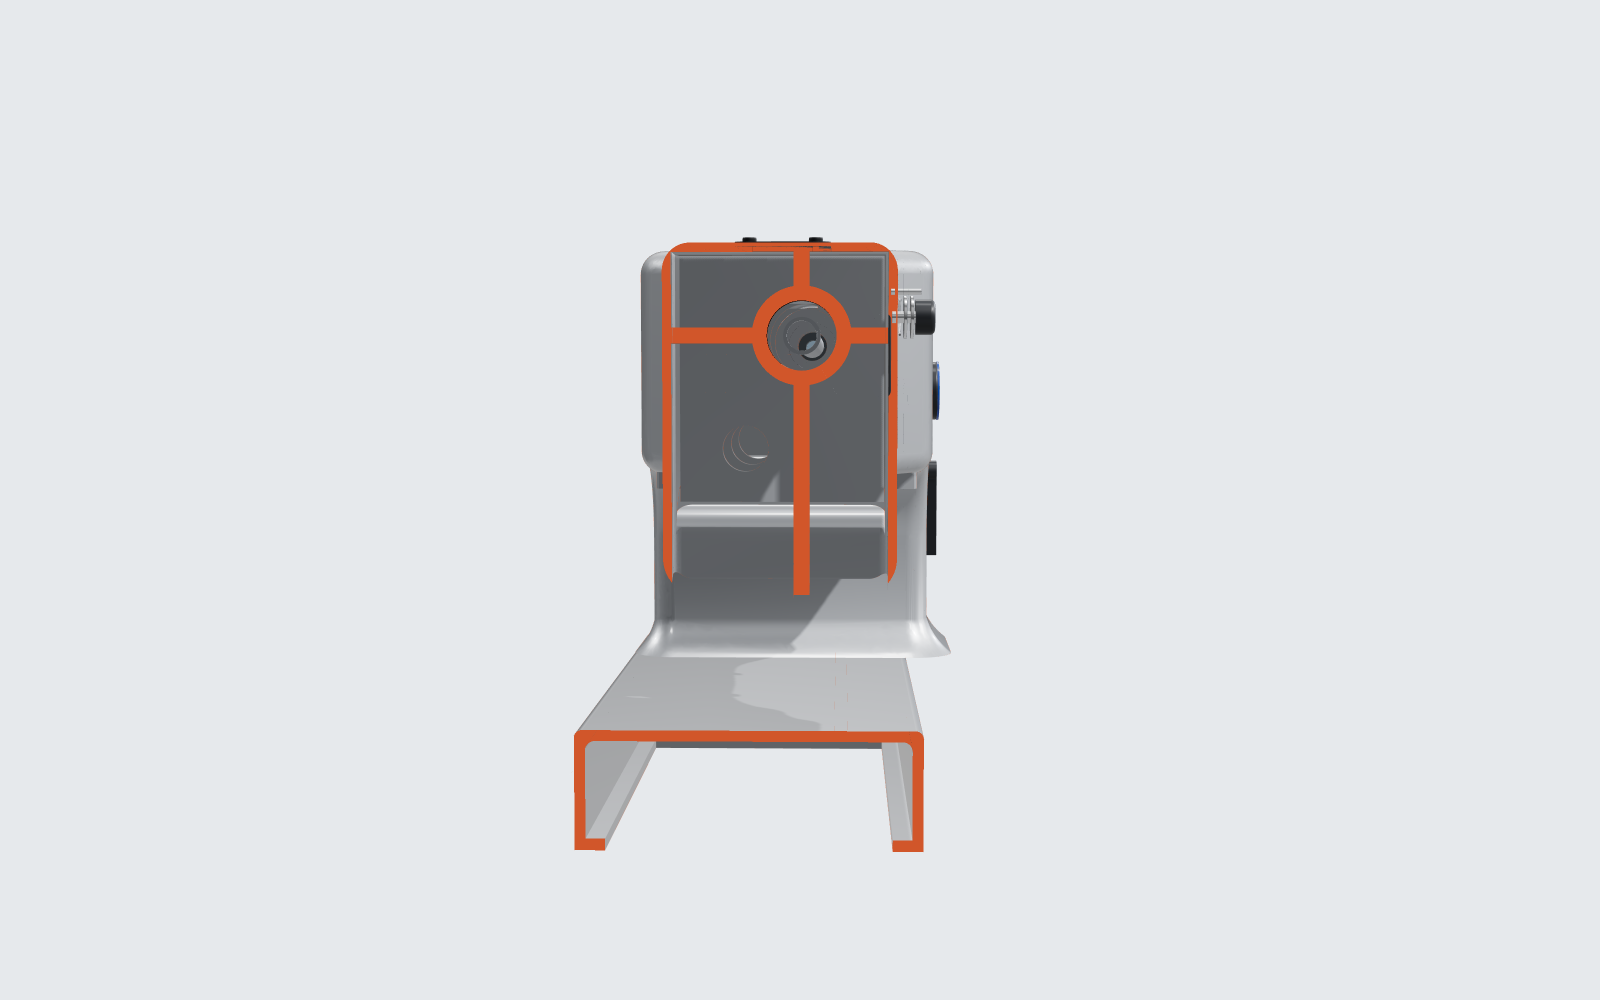
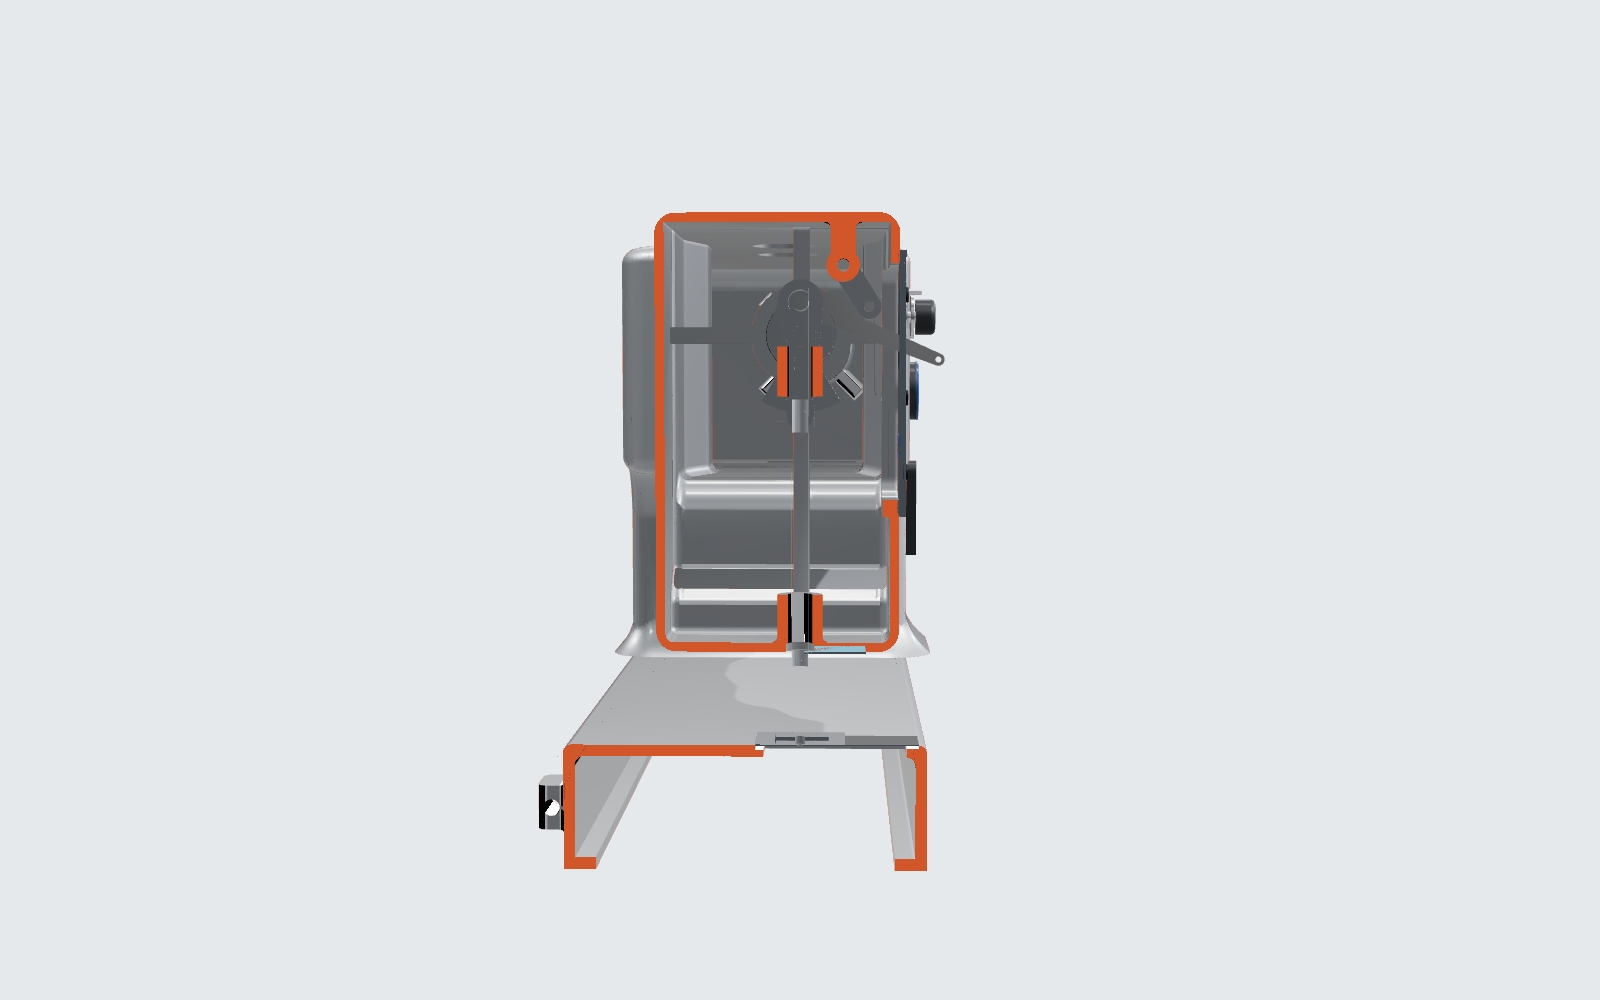
第138轮 G4.4 完成：机臂补底壁、机壳分上下两件（24.3 kg，221/229 Hz），干涉复核、剖视图重出
Claude-Session: https://claude.ai/code/session_01NKjsqWvDSpVGBBfSfcC778

Changed region(s): [[0.375, 0.186, 0.5938, 0.682], [0.3125, 0.713, 0.5938, 0.868]]

diff --git a/docs/设计/WQ-LS/G3/外观与机壳铸件.md b/docs/设计/WQ-LS/G3/外观与机壳铸件.md
@@ -252,3 +252,52 @@ Eddie：“别标新立异了，先灰铸铁吧。”机壳材料定为 **HT250 
 - 工艺规程、夹具、精度预算、数控程序；
 - 毛坯图和零件图；
 - 三坐标测量检测计划。
+
+## 十二、G4.4 补上机臂底壁、机壳分上下两件（2026-11-11）
+
+起因：Eddie 11-11 07:34 看剖视图：“机壳分上下两部分，你这刨开是老样子，而且中间下面明显少薄壁”。
+
+**发现的错误（G3 起就有）**：`cad/housing.py` 求内腔轮廓时，机臂下沿写成了往外扩（`ARMB − k`），应该往里收（`ARMB + k`）。机臂底面一直没有壁，是一个向下敞口的槽。**第三、六、九、十、十一节里的模态、重量、材料比较、减重结论，算的都是这个错误模型，以本节为准。**
+
+**改法**
+
+1. 改正内腔轮廓，机臂补上底壁（壁厚同机臂 5.8 mm），机臂成了封闭的箱形截面。
+2. 机壳分两件，都是 HT250：
+   - **上件**：机头、机臂、立柱，15.8 kg。
+   - **下件**：机座，8.4 kg。
+   - 接合面在机座顶面 z = 0 的立柱脚处，两面都精铣。
+   - 2 个 Ø10 圆柱销对角定位（两件合在一起同钻铰），4 个 M10 内六角螺钉从机座里面向上拧进立柱脚的 4 个凸台（螺孔深 22，机座一侧 Ø11 通孔、Ø18 锪平）。
+   - 立柱脚中间开 44 × 60 的孔，同步带和电线从这里穿过。
+   - 好处：上件的上轴孔系、下件的旋梭和送布孔系可以分别装夹加工；两件的相对位置靠销孔保证，G5 做精度预算时核对。
+3. 机臂截面封闭以后刚度富余很多，按“最轻”重新定壁厚（四个方案都算了模态，数据在 `G4.4_壁厚复算.json`）：
+
+| 方案 | 做法 | 重量（有限元模型） | 前后摆 / 上下（Hz） |
+|---|---|---|---|
+| 起点 | 补底壁、分两件，其余沿用 G4.3（根部 8.1、3 道横筋、机座纵筋、机臂 −45…67.6） | 28.0 kg | 245 / 302 |
+| v1 | 根部不加厚（5.8），去掉横筋和机座纵筋 | 23.4 kg | 222 / 229 |
+| **v2（选定）** | v1 + 机臂回到 −38…60 | **23.3 kg** | **221 / 229** |
+| v3 | v2 + 立柱缩到 −50…104 | 22.5 kg | 208 / 229 |
+
+   选 v2 不选 v3：立柱与机座后沿平齐，接合面的 4 个螺钉才能拉开最大的间距；螺钉连接实际上没有算的那么硬，要留余量。v3 只轻 0.8 kg。机臂里不要横筋，砂芯也简单了。
+
+   有限元模型的做法：不倒外圆角、不带小孔；接合面按刚性连接，凸台、螺孔、销孔不进网格（带上它们时网格在接合面的孔口处划分失败）；机座底面固定。
+
+**新旧对照**
+
+| 项目 | G4.3（机臂底面敞口，错误） | G4.4（补底壁、分两件） |
+|---|---|---|
+| 机壳重量（倒圆后） | 25.3 kg，一件 | **24.3 kg**：上件 15.8 + 下件 8.4 |
+| 前后摆 / 上下 | 127 / 225 Hz | **221 / 229 Hz**（要求 ≥ 125 / ≥ 210） |
+| 机臂截面 | 槽形，下面敞口 | 封闭箱形 |
+| 机臂内横筋、机座纵筋 | 3 道、14 mm | 不要了 |
+| 机构与电机最小间隙 | ≥ 1.0 mm | ≥ 1.0 mm（摇杆、曲柄与机壳 1.0；定子与磁钢 1.1 是气隙） |
+
+所以原来“灰铸铁下不了 24 kg”的结论也作废了：机壳的刚度不再卡重量，卡重量的是砂型铸造的最小壁厚（机臂 5.8、机头 4.5、机座 5.6）。要再轻，就要减壁厚，那是 G5 铸造工艺的事（浇不足的风险）。上轴、轴承和电机没有变，G2 的计算不受影响。
+
+**图**
+
+- 外观：`机壳_外观.png`、`机壳_后视.png`、`机壳_面板.png`、`机壳_拆下盖板.png`
+- 上下件分开：`机壳_上下件分开.png`、`机壳_上下件分开_后.png`（能看到接合面、销孔、螺钉孔、过带孔）
+- 剖视：`机壳_正面剖.png`、`机壳_正面剖_分开.png`、`机壳_斜视剖.png`、`机壳_机头横剖.png`、`机壳_机臂横剖.png`（封闭箱形）、`机壳_立柱横剖.png`、`机壳_前后剖.png`、`机壳_电机剖开.png`
+
+三维网页（`tools/wqls/render/casting.html`）加了“上下两件：分开看”按钮，上件连同机构、电机抬高 90 mm。

diff --git a/docs/实施细则/第138轮_2026-11-10_真正设计一台平缝机WQ-LS.md b/docs/实施细则/第138轮_2026-11-10_真正设计一台平缝机WQ-LS.md
@@ -339,3 +339,15 @@ G1 → G2 → GC（控制器，和 G3 并行）/ G3（外观定稿）→ G4 → 
    - 刺布、挑线机构和电机的干涉检查。
 4. 机臂截面封闭以后刚度会大幅提高，用 G4 的优化程序在新模型上重跑壁厚优化，以最轻为目标。
 5. 三维网页加“上下件分开看”，剖视图重出。
+
+**G4.4 验收（2026-11-11）**
+
+| 细则条目 | 结果 |
+|---|---|
+| 1. 改正内腔轮廓，补机臂底壁 | ✅ 机臂成封闭箱形（`机壳_机臂横剖.png`） |
+| 2. 分两件、接合面、销、M10 螺钉、过带孔 | ✅ 上件 15.8 kg、下件 8.4 kg，导出 `housing_upper.step`、`housing_lower.step` |
+| 3. 重算重量、模态、干涉 | ✅ 24.3 kg；221 / 229 Hz（≥ 125 / ≥ 210）；最小间隙 ≥ 1.0 mm（`G4/干涉检查.json`） |
+| 4. 按最轻重定壁厚 | ✅ 算了 4 个方案，选 v2（偏差：没有用 optuna 跑全量 9 参数搜索。底壁补上后频率比要求高出 75%，卡重量的已经是铸造最小壁厚，搜索没有意义，改为针对性的 4 个方案） |
+| 5. 三维网页“分开看”，剖视图重出 | ✅ 14 张图，见 G3 文档第十二节 |
+
+偏差：有限元模型里接合面按刚性连接，不带凸台和孔（与细则“接合面按刚性连接”一致）。螺钉连接的实际刚度在 G5 用接触分析核对。
